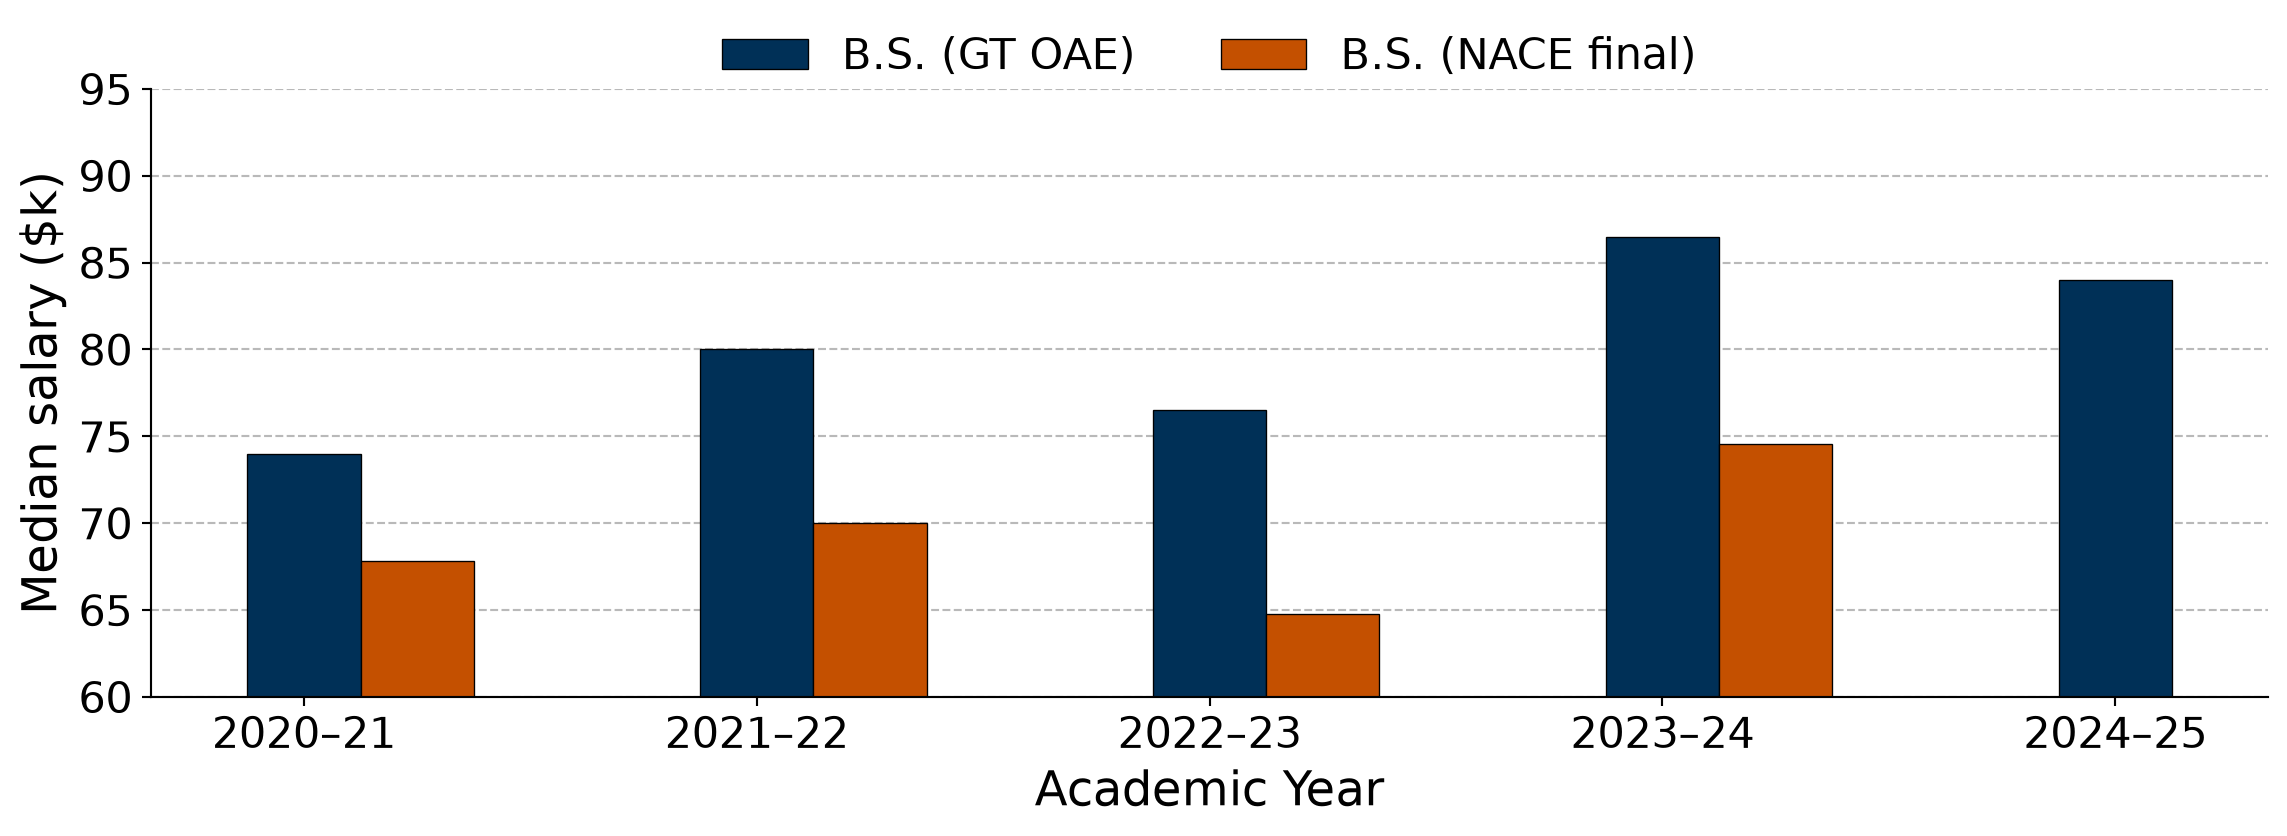
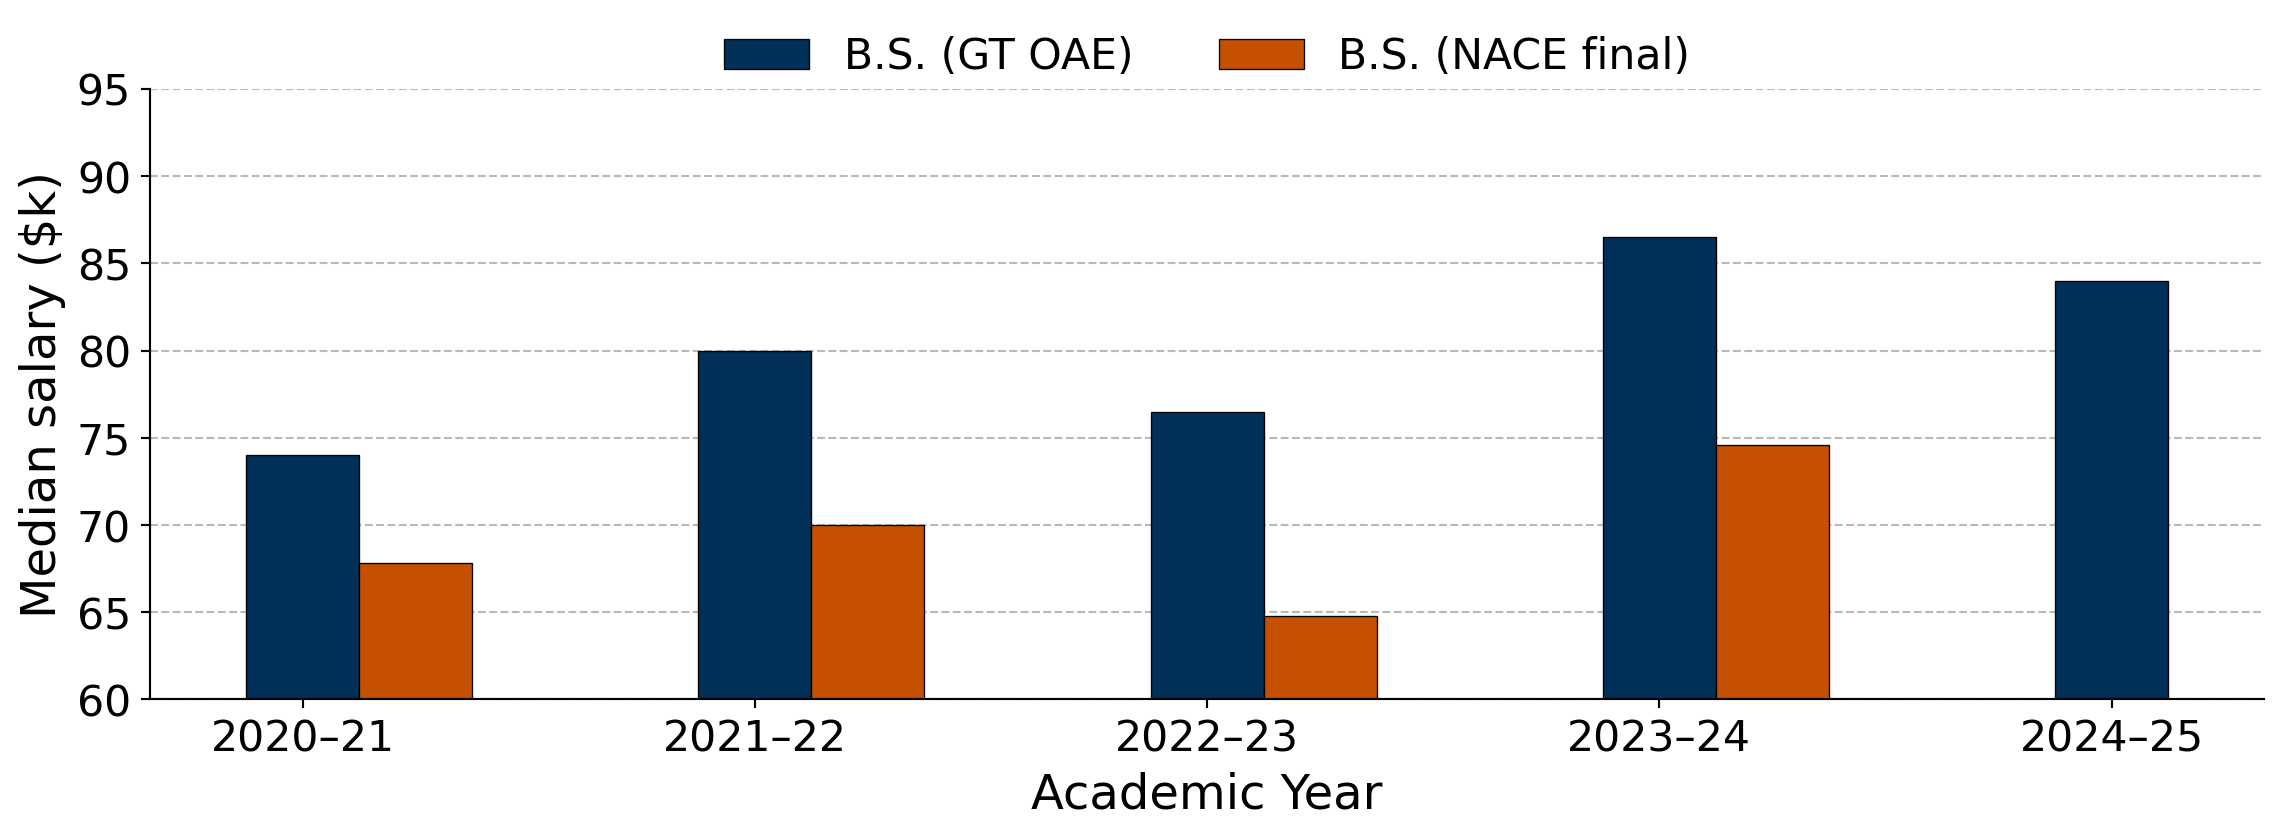
Add course conventions; apply style fixes across pages and slides
- Add CLAUDE.md documenting formatting, language, page and slide
  structure, styling, and directory conventions (shared with
  gt-gt-1000).
- Fix {.highlight_box} typo in lecture-01 (now {.highlight-box}).
- Use &middot; instead of &bull; as the info-line separator.
- Abbreviate months in the lecture index.
- Replace remaining "--" in prose and tables with &ndash;.
- Convert slide titles to sentence case.
- Use forward slashes for the Course Files navbar paths.
- Refresh frozen output for lecture-01; drop unused lecture-03
  figure-html output.

diff --git a/CLAUDE.md b/CLAUDE.md
@@ -1,0 +1,122 @@
+# Course Conventions
+
+Quarto website for a Georgia Tech physics course, instructor Andrew J. Steinmetz. Two sibling repos share one scaffold and one set of conventions: `gt-gt-1000` (GT 1000, First-Year Seminar) and `gt-phys-4604` (PHYS 4604, Professional Development). The shared conventions below are identical in both repos' `CLAUDE.md`; keep them in sync when either changes.
+
+## Working in this repo
+
+- When the user reports an error, explain the cause and the proposed fix first, then wait for a go-ahead before editing, especially for edits across many files.
+- Preview with `quarto preview` (`.claude/launch.json` defines `quarto-preview` on port 4321 where present). Render a single file with `quarto render path/to/file.qmd`.
+- `freeze: auto` is on. Rendered output of Python cells is committed under `_freeze/`, so a render normally needs no Python. Editing a file with Python cells re-executes them (needs matplotlib and numpy).
+- Publishing is `quarto publish gh-pages`. Never edit the `gh-pages` branch, `_site/`, or `_freeze/` by hand.
+- Semester rollover: tag the repo (e.g. `fall-2026`), then update semester, CRN, meeting time, and dates in `index.qmd`, `course-files/syllabus.qmd`, and the LaTeX syllabus.
+
+## Characters and punctuation (ASCII-only source)
+
+All `.qmd`, `.md`, and `.yml` source is ASCII-only. Write special characters as HTML entities:
+
+| Character | Write | Use |
+|---|---|---|
+| Middle dot | `&middot;` | The separator: subtitles, footers, bold info lines, table cells (not `&bull;`) |
+| Em dash | `&mdash;` | Parenthetical dash; list "item &mdash; description" |
+| En dash | `&ndash;` | Ranges: `12:30&ndash;1:20 PM`, `September 14&ndash;15`, `2020&ndash;21` |
+| Arrow, >=, <=, times | `&rarr;` `&ge;` `&le;` `&times;` | Prerequisite chains, thresholds |
+| Accented letters | `&eacute;` `&ouml;` ... | Proper names (`Polit&eacute;cnica`, `Malm&ouml;`) |
+| Copyright, degree, ellipsis | `&copy;` `&deg;` `&hellip;` | As needed |
+
+- Do not use literal Unicode, `--`/`---` smart dashes, or `$\cdot$`-style math for punctuation. Reserve `$...$` for real equations.
+- Spell **resume** without accents (Resume, resumes), never the accented form.
+- Inside executable code chunks (Python), entities do not render; use `\uXXXX` escapes in string literals (backslash, `u`, then the 4-digit hex code: `u2013` for an en dash, `u2014` for an em dash).
+- Escape a literal `@` in prose as `\@` (e.g. `Physics\@Tech`) so Pandoc does not read it as a citation.
+- YAML front-matter strings use **double quotes**. Never put a backslash inside them (`"\cdot"` is an invalid YAML escape and breaks the build); entities avoid the need. If a value truly needs math or mixed quotes, use a folded block (`subtitle: >-` with the text indented on the next line).
+
+## Language and voice
+
+- Address students as **you**; the instructor writes as **I**/**we** ("We covered this in Lecture 1"). Direct, plain, warm; short sentences; no filler.
+- Submission checklists are written in first person from the student's view: "I have submitted my work as a PDF."
+- American spelling. "Georgia Tech" on first mention, "Tech" afterward is fine. "Team Leader" (capitalized) for the undergraduate assistant.
+- Dates in prose and subtitles: full month, no year when obvious (`September 11`). Dates in tables and schedules: abbreviated (`Aug. 28`, `Sept. 4`, `Oct. 2`, `Nov. 6`, `Dec. 4`; note **Sept.**). Lecture front matter: `date: "September 18, 2026"`.
+- Times: `11:59 PM ET`, ranges with `&ndash;`. Deadlines are 11:59 PM ET unless stated otherwise.
+- Grades: `10% of course grade`, points as plain numbers. Percent weights and points in pages must match the syllabus.
+- Submission filenames are given in code formatting: `` `Lastname-Firstname-Resume.pdf` ``, `` `Team-Name-Contract.pdf` ``. Work is submitted to Canvas as PDF.
+- Unfinished content: `TBD` in rendered text plus an HTML comment `<!-- TODO: ... -->` in the source explaining what is missing.
+- Keep facts consistent everywhere they appear. When a date moves, update the schedule in `index.qmd`, the assignment page (subtitle and body), the category/overview table, any lecture "Due dates" slide, and lecture speaker notes; then grep for the old date.
+
+## Page structure (website pages)
+
+- Front matter is `title` + `subtitle` only.
+  - Course pages (index, syllabus, supplemental, lecture index): `subtitle: "<COURSE>: <Course Name>"`.
+  - Assignment pages: `subtitle: "Due: <Month D> by 11:59 PM ET &middot; <N>% of course grade"`.
+- Headings: `##` Title Case for page sections (numbered automatically by `number-sections: true`). Do not use `#` in the body.
+- Assignment page section order: **Purpose**, then any assignment-specific sections, **What to Submit**, **Expectations**, **Submission Checklist**, **Helpful Resources** (the last two may be swapped, but keep them at the end).
+- Point tables: `| Deliverable | Due | Points | |` with a `[Open assignment](...)` link column and a bold **Total** row.
+- Callouts: `{.callout-note}` for info, `{.callout-tip}` for advice, `{.callout-important}` for rules and deadlines, `{.callout-warning}` sparingly. Two-column layouts use `:::: {.columns}` with `::: {.column width="50%"}`.
+- Links between pages are relative paths to the `.qmd` source (`../supplemental/resume-cv.qmd`), never to `.html`.
+- Citations use keys from `references.bib` (`[@key]`); the bibliography is project-wide.
+- New pages must be added to the navbar in `_quarto.yml` (and lectures to `lectures/index.qmd`).
+
+## Lecture slides (RevealJS)
+
+- File name `lectures/lecture-NN.qmd` (two digits, numbered by lecture). Add a row to `lectures/index.qmd`: `| N | Mon. D | Topic | [Open slides](lecture-NN.qmd){target="_blank"} |`.
+- Front matter (copy from the previous lecture and keep identical apart from title, subtitle number, and date):
+
+  ```yaml
+  title: "Topic Title"
+  subtitle: "<COURSE> &middot; Lecture N"
+  author: "Andrew J. Steinmetz"
+  date: "Month D, YYYY"
+  format:
+    revealjs:
+      theme: [default, gatech-revealjs.css]
+      slide-number: c/t
+      transition: none
+      footer: "<see repo-specific footer below>"
+      width: 1200
+      height: 750
+      auto-stretch: false
+  ```
+
+  Slide size stays 1200 x 750 (16:10).
+- One slide per `##` heading, with `---` on its own line between slides.
+- Slide titles are **sentence case** (unlike page headings): "Writing strong bullets", "Where do new physics PhDs work?". Capitalize the first word after a `Part N:` or `Aside:` label ("Part III: The graduate school path"); after any other colon, lowercase ("Study abroad: the deadlines are earlier than you think"). Proper nouns and official names keep their capitals: GT 1000, NSF GRFP, PhD, CV, Team Leader, Fall 2026 All Majors Career Fair, assignment names (Campus Scavenger Hunt), and the majors Physics, Astrophysics, and Applied Physics.
+- Usual opening: a "Due dates"/"Upcoming" slide with a `| What | When | Points |` table. Usual close: a `## References` slide containing `::: {#refs}` (add `{.scrollable}` and `style="font-size: 0.7em;"` when long).
+- Section dividers: `## Part II: Sentence-case title {.section-slide background-color="#003057"}`.
+- Slide building blocks (styled in `lectures/gatech-revealjs.css`):
+  - `::: {.highlight-box}` for the key takeaway (hyphen, not underscore).
+  - `::: {.cite-note}` under a figure or claim for its source, e.g. `Source: [@key]`.
+  - `::: {.nonincremental}` around lists.
+  - `::: notes` for speaker notes: sourcing details, reminders, things to re-check before class.
+- Figures live in `lectures/figs/` (decorative images in `lectures/figs/fluff/`), inserted as `![](figs/name.png){fig-align="center" width="80%"}` with `fig-alt` text for meaningful images.
+- The cream outline on `.reveal .slides` marks the slide frame for spotting overflow; keep content inside it.
+
+## Styling
+
+- Site theme `gatech-theme.css` and slide theme `lectures/gatech-revealjs.css` are **identical in both repos**. Change them in both.
+- Colors come from the CSS variables (Georgia Tech navy `#003057`, gold `#B3A369`, bright gold `#EAAA00`, cream `#f9f6e5`). Prefer an existing class over inline `style=`; keep inline styles to small font-size or alignment tweaks.
+
+## Directory structure
+
+```
+index.qmd                 Welcome page; its Course Schedule is the live, authoritative schedule
+_quarto.yml               Site config and navbar
+gatech-theme.css          Site theme (shared across both repos)
+references.bib            Project-wide bibliography
+course-files/             Syllabus (.qmd) and LaTeX sources (*-latex/ folders: printable syllabus, worksheets)
+assignments/              Assignment pages
+supplemental/             Reference guides (resume-cv, technical-writing, peer-feedback)
+lectures/                 index.qmd, lecture-NN.qmd, gatech-revealjs.css, figs/
+_site/, _freeze/, .quarto/  Build output (not edited by hand)
+```
+
+LaTeX files in `course-files/*-latex/` are named `<course>-<topic>[-<term>].tex` (e.g. `gt-1000-syllabus-fall26.tex`).
+
+## This repo: gt-phys-4604 (PHYS 4604, Professional Development)
+
+- Course: PHYS 4604 Professional Development, Fall 2026, 1 credit. Audience: final-year Physics, Astrophysics, and Applied Physics majors preparing for graduate school or industry.
+- Course-page subtitle: `"PHYS 4604: Professional Development"`. Lecture subtitle: `"PHYS 4604 &middot; Lecture N"`.
+- Lecture footer: `"PHYS 4604 &middot; Fall 2026 &middot; Georgia Institute of Technology"`.
+- Assignments are flat in `assignments/`, one page each, titled with their number: `title: "Assignment 3 &middot; Research Proposal"`.
+- Several pages link to Canvas pages (course 559356), e.g. the AI Usage Statement; keep those links rather than duplicating Canvas content.
+- `lectures/lab-report.qmd` is a guest deck for PHYS 4321/4322 (Advanced Lab): its own subtitle and footer (`"PHYS 4321/4322 &middot; Georgia Institute of Technology"`), no date, and `code-overflow: wrap`. It is not part of the numbered lecture sequence.
+- Lectures without slides (guest speakers) still get a row in `lectures/index.qmd` with `--` in the Slides column.
+- `_old/` holds the archived original HTML pages. Reference only; do not edit.
+- `submissions/` (if present) holds student work. It is gitignored and must never be committed, published, or quoted outside this machine.
